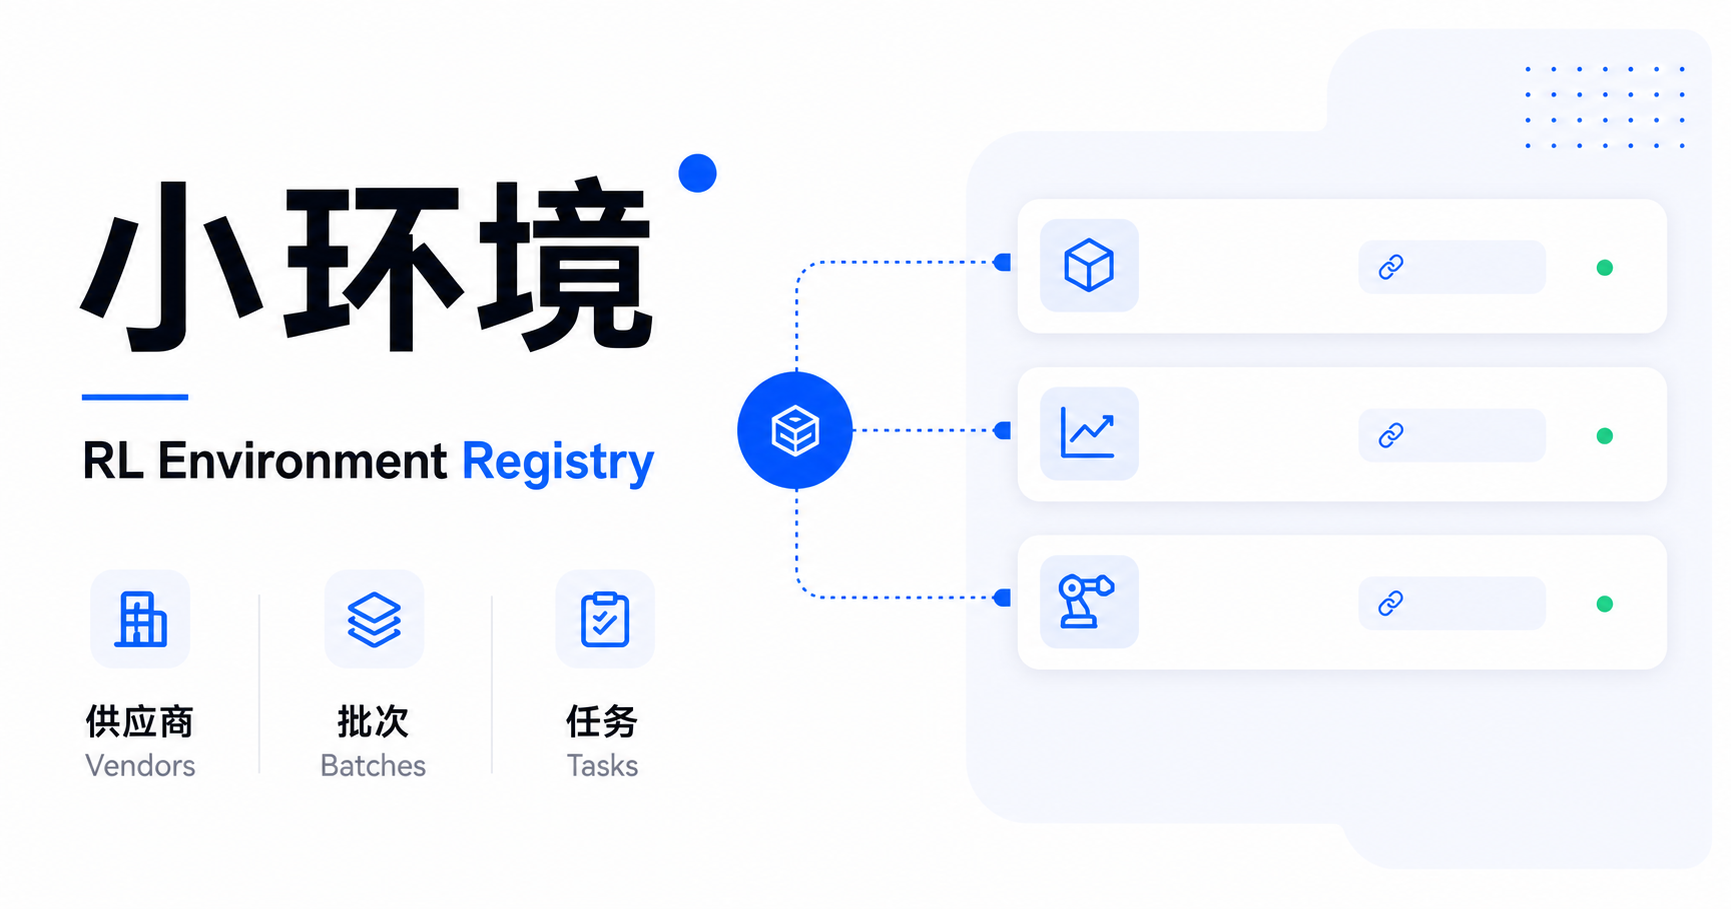
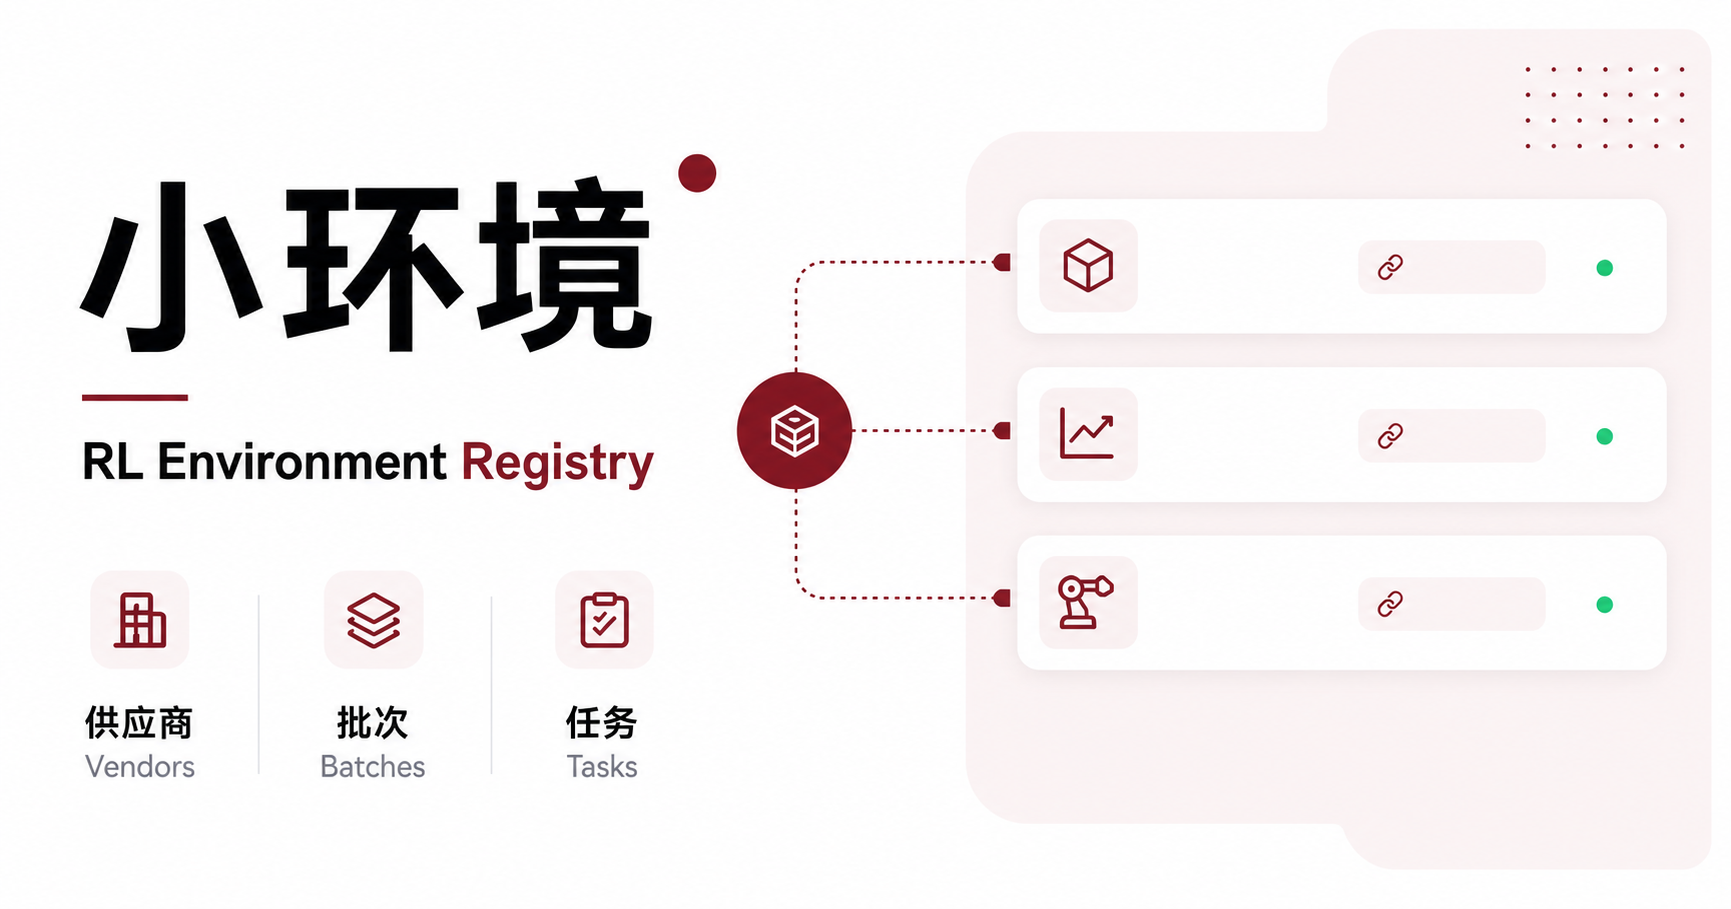
Use dark red portal palette

diff --git a/app/globals.css b/app/globals.css
@@ -7,8 +7,8 @@
   --ink: #18181b;
   --muted: #6f747b;
   --faint: #9a9fa6;
-  --blue: #1456f0;
-  --blue-soft: #ecf2fe;
+  --blue: #7d1f2a;
+  --blue-soft: #f7ecee;
   --green: #16803c;
   --red: #c92a37;
 }
@@ -64,11 +64,11 @@ main { min-height: 100vh; padding-top: 78px; }
 .vendor-list button strong { overflow: hidden; font-size: 12px; font-weight: 590; text-overflow: ellipsis; white-space: nowrap; }
 .vendor-list button small { color: var(--muted); font-size: 9px; }
 .vendor-mark { width: 36px; height: 36px; display: grid; place-items: center; border-radius: 11px; background: var(--blue-soft); color: var(--blue); font: 650 10px/1 var(--font-geist-mono, ui-monospace), monospace; }
-.vendor-mark.large { width: 52px; height: 52px; flex: 0 0 auto; border-radius: 15px; background: white; box-shadow: 0 10px 30px rgba(20,86,240,.11); font-size: 14px; }
+.vendor-mark.large { width: 52px; height: 52px; flex: 0 0 auto; border-radius: 15px; background: white; box-shadow: 0 10px 30px rgba(125,31,42,.11); font-size: 14px; }
 .sidebar-empty { padding: 24px 14px; color: var(--muted); font-size: 11px; text-align: center; }
 
 .vendor-main { min-width: 0; }
-.vendor-profile { min-height: 206px; padding: 32px 34px; display: flex; align-items: flex-start; gap: 19px; border-radius: 24px; background: linear-gradient(135deg, #edf3ff 0%, #f6f7f9 72%); }
+.vendor-profile { min-height: 206px; padding: 32px 34px; display: flex; align-items: flex-start; gap: 19px; border-radius: 24px; background: linear-gradient(135deg, #faf1f2 0%, #f6f7f9 72%); }
 .vendor-profile h2 { margin: 5px 0 9px; font-size: 32px; line-height: 1.08; letter-spacing: -.035em; font-weight: 550; }
 .vendor-profile p { max-width: 740px; margin: 0; color: var(--muted); line-height: 1.6; }
 .vendor-kicker { color: var(--blue); font: 620 9px/1 var(--font-geist-mono, ui-monospace), monospace; letter-spacing: .1em; text-transform: uppercase; }
@@ -135,7 +135,7 @@ main { min-height: 100vh; padding-top: 78px; }
 .source-actions { display: flex; flex-wrap: wrap; justify-content: flex-end; gap: 6px; }
 .source-actions a { padding: 6px 9px; border-radius: 7px; background: white; color: var(--blue); font-size: 9px; font-weight: 620; text-decoration: none; white-space: nowrap; }
 .source-item .source-actions a { background: var(--blue-soft); }
-.source-actions a:hover { background: #dce7ff; }
+.source-actions a:hover { background: #edd9dc; }
 .source-empty { padding: 15px; border-radius: 12px; background: var(--surface); color: var(--muted); font-size: 10px; }
 
 .state-card { max-width: 760px; min-height: 250px; padding: 38px; border-radius: 24px; background: var(--surface); }
@@ -154,15 +154,12 @@ main { min-height: 100vh; padding-top: 78px; }
 .checks-row small { color: var(--muted); font-size: 9px; }
 .checks-head { min-height: 44px; background: var(--surface-strong); color: var(--muted); font-size: 9px; font-weight: 620; }
 
-.criteria-layout { display: grid; grid-template-columns: minmax(0, 1fr) 300px; align-items: start; gap: 22px; }
+.criteria-layout { display: block; }
 .criteria-list { margin: 0; padding: 0; display: grid; gap: 9px; list-style: none; }
 .criteria-list li { min-height: 104px; padding: 21px 22px; display: grid; grid-template-columns: 42px 1fr; gap: 14px; border-radius: 18px; background: var(--surface); }
 .criteria-list li > span { color: var(--blue); font: 620 10px/1.4 var(--font-geist-mono, ui-monospace), monospace; }
 .criteria-list h3 { margin: 0 0 7px; font-size: 14px; font-weight: 610; }
 .criteria-list p { margin: 0; color: var(--muted); font-size: 11px; line-height: 1.65; }
-.criteria-aside { position: sticky; top: 102px; padding: 22px; border-radius: 18px; background: var(--blue); color: white; }
-.criteria-aside strong { font-size: 13px; font-weight: 620; }
-.criteria-aside p { margin: 11px 0 0; color: rgba(255,255,255,.78); font-size: 11px; line-height: 1.65; }
 
 @media (max-width: 1120px) {
   .global-header { grid-template-columns: 160px 1fr auto; gap: 20px; padding: 0 24px; }
@@ -197,8 +194,6 @@ main { min-height: 100vh; padding-top: 78px; }
   .vendor-profile { min-height: 0; padding: 25px; }
   .submission-history { margin-top: 40px; }
   .section-title { min-height: 106px; }
-  .criteria-layout { grid-template-columns: 1fr; }
-  .criteria-aside { position: static; grid-row: 1; }
   .page-body { padding-bottom: 90px; }
 }
 

diff --git a/app/portal-client.tsx b/app/portal-client.tsx
@@ -424,7 +424,7 @@ function StateCard({ value }: { value: { eyebrow: string; title: string; body: s
 }
 
 function CriteriaView({ t }: { t: UiCopy }) {
-  return <section aria-labelledby="criteria-title"><div className="content-title"><div><p className="eyebrow">{t.criteriaIntro.eyebrow}</p><h2 id="criteria-title">{t.criteriaIntro.title}</h2><p>{t.criteriaIntro.note}</p></div><span className="criteria-count">{t.criteriaIntro.count}</span></div><div className="criteria-layout"><ol className="criteria-list">{t.criteria.map(([title, text], index) => <li key={title}><span>{String(index + 1).padStart(2, "0")}</span><div><h3>{title}</h3><p>{text}</p></div></li>)}</ol><aside className="criteria-aside"><strong>{t.criteriaIntro.boundary}</strong><p>{t.criteriaIntro.p1}</p><p>{t.criteriaIntro.p2}</p></aside></div></section>;
+  return <section aria-labelledby="criteria-title"><div className="content-title"><div><p className="eyebrow">{t.criteriaIntro.eyebrow}</p><h2 id="criteria-title">{t.criteriaIntro.title}</h2><p>{t.criteriaIntro.note}</p></div><span className="criteria-count">{t.criteriaIntro.count}</span></div><div className="criteria-layout"><ol className="criteria-list">{t.criteria.map(([title, text], index) => <li key={title}><span>{String(index + 1).padStart(2, "0")}</span><div><h3>{title}</h3><p>{text}</p></div></li>)}</ol></div></section>;
 }
 
 function safeExternalUrl(value: string | null) {
